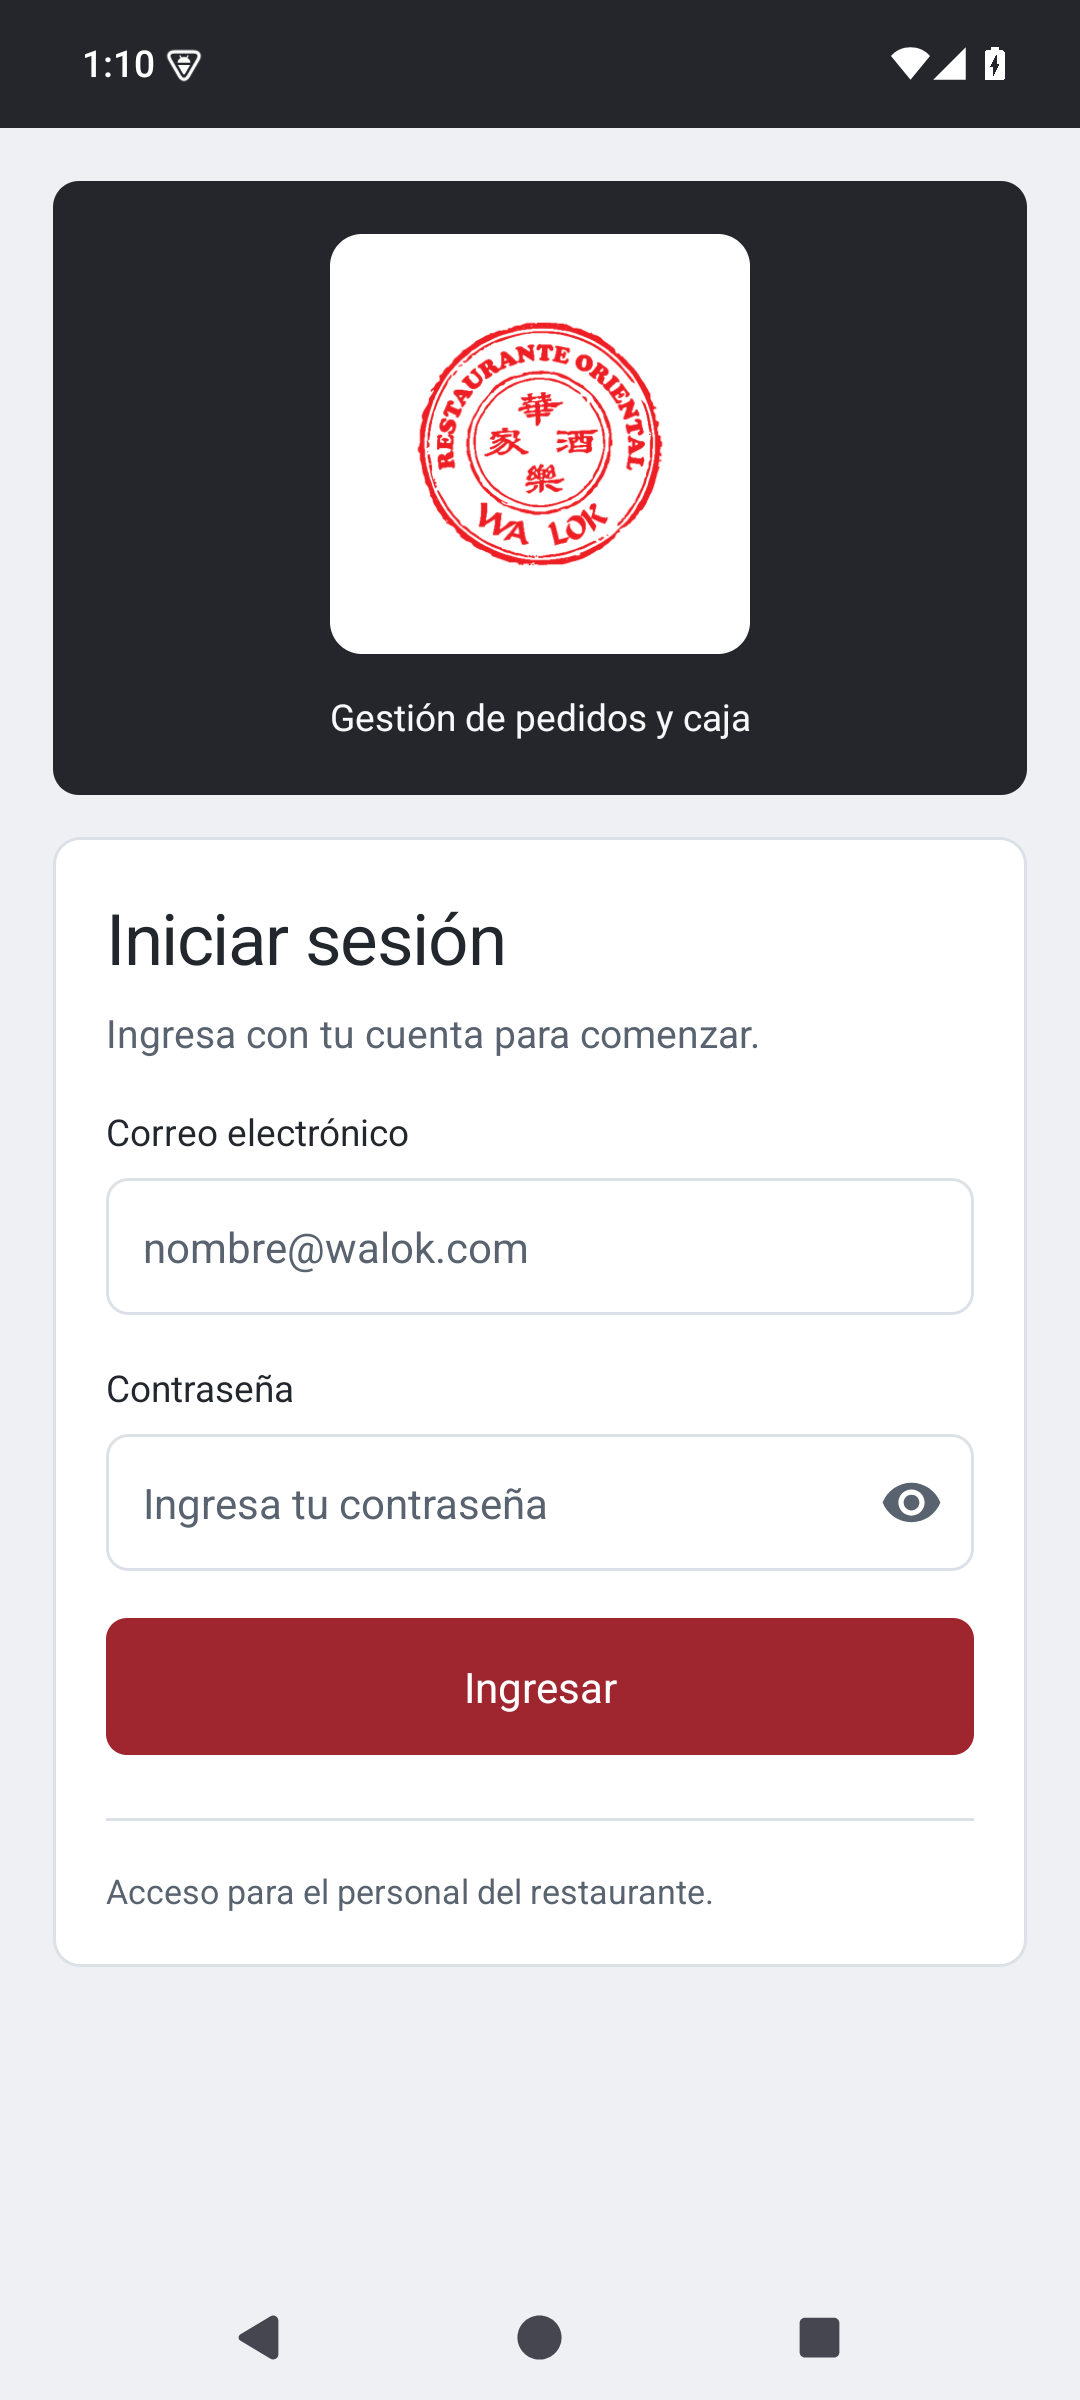
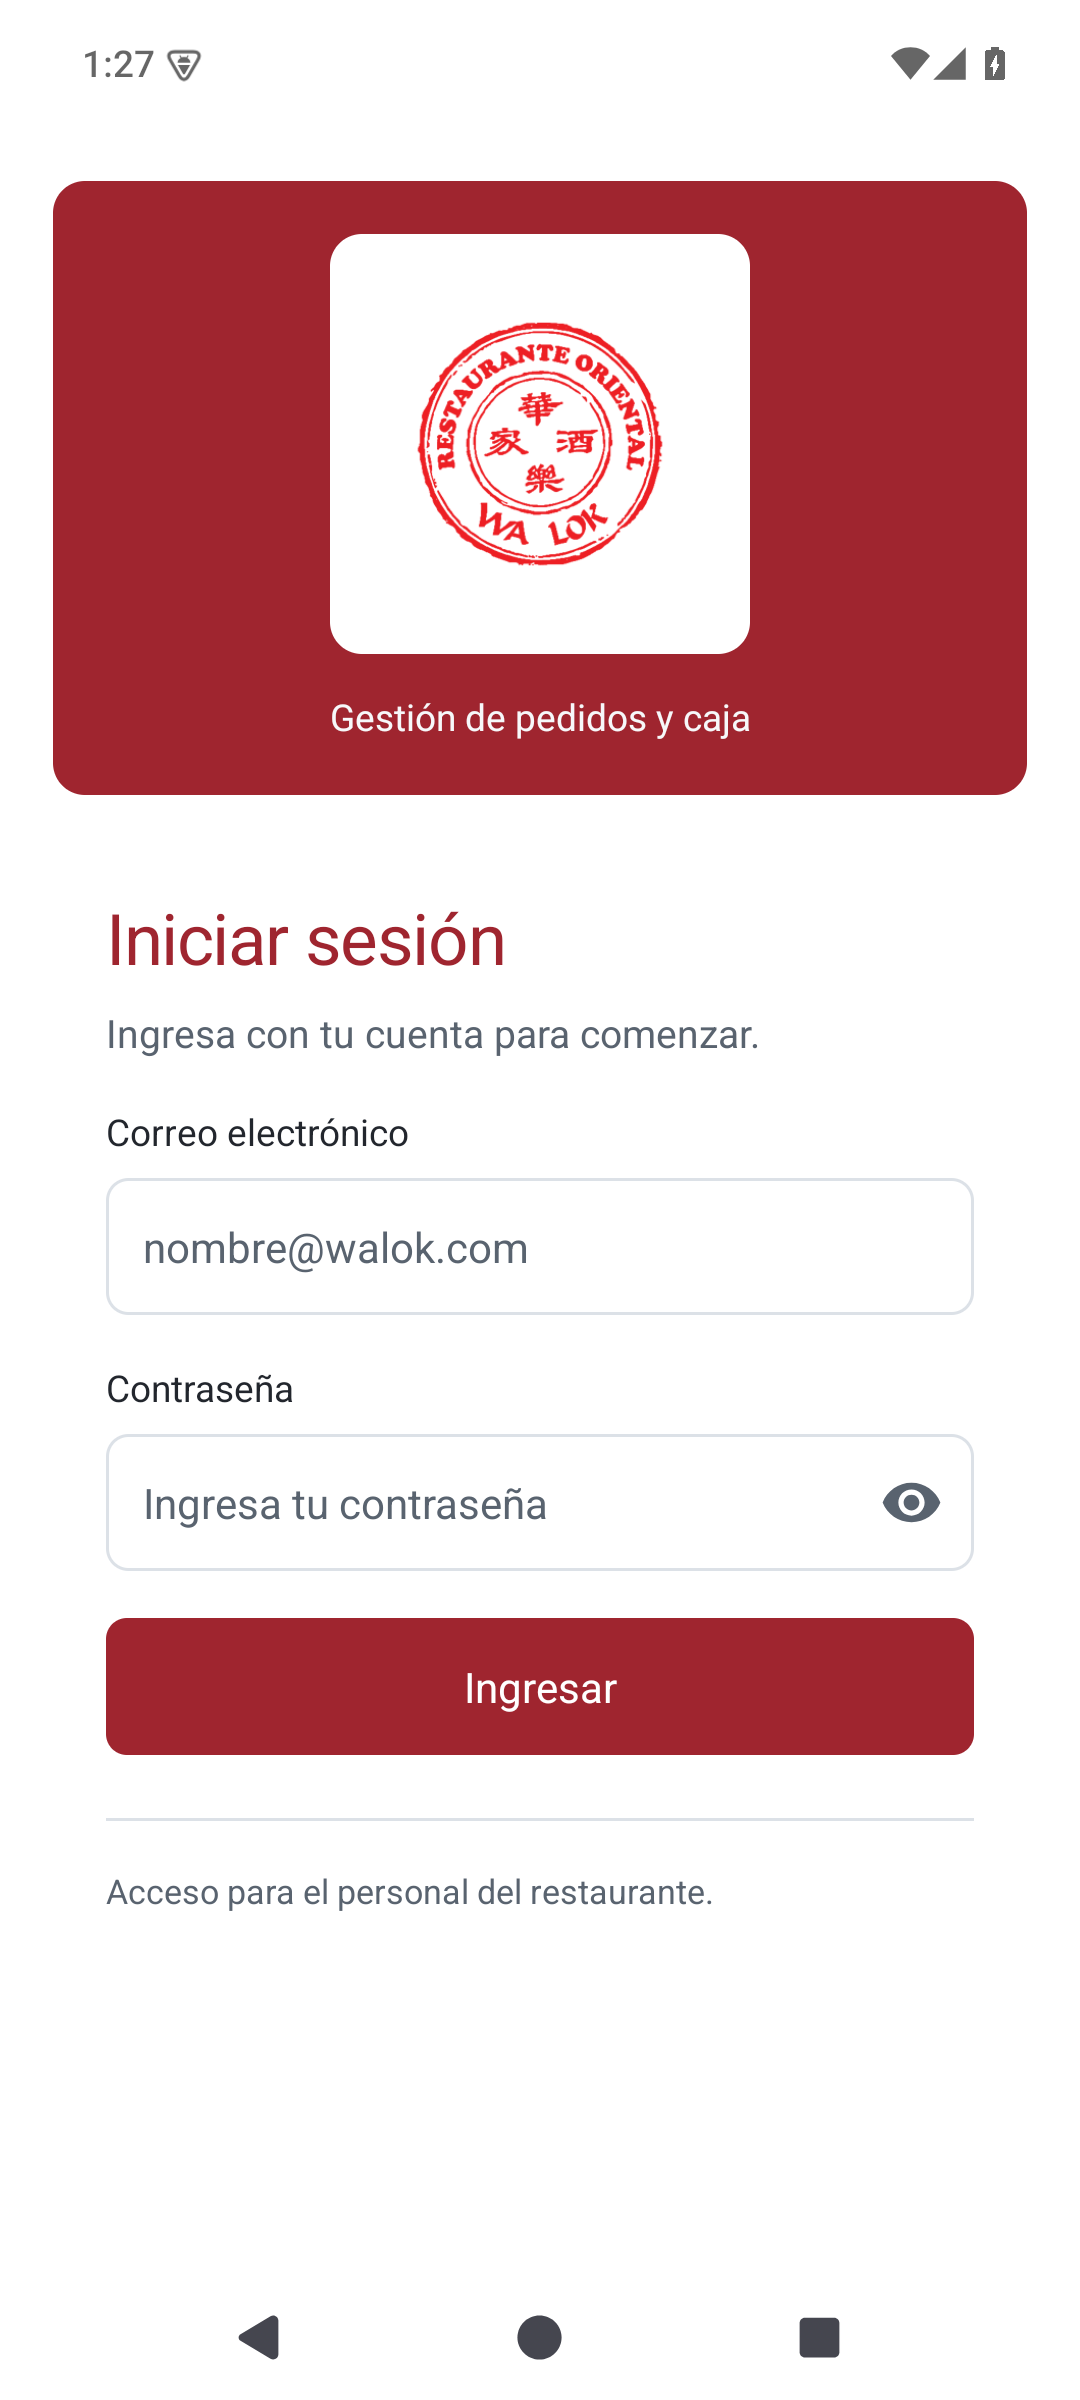
fix: ajustar login de Walok en rojo y blanco

Changed region(s): [[0.0, 0.0, 1.0, 0.3438], [0.0917, 0.375, 0.4889, 0.4062]]

diff --git a/app/src/main/java/com/example/walok_app/WalokActivity.java b/app/src/main/java/com/example/walok_app/WalokActivity.java
@@ -28,24 +28,27 @@ public abstract class WalokActivity extends AppCompatActivity {
             return false;
         }
         setContentView(layout);
+        boolean loginScreen = layout == R.layout.activity_main;
         boolean lightNavigation = Build.VERSION.SDK_INT >= Build.VERSION_CODES.O;
+        int backgroundColor = getColor(loginScreen ? R.color.walok_card : R.color.walok_background);
+        int statusColor = getColor(loginScreen ? R.color.walok_card : R.color.walok_header);
+        int navigationColor = lightNavigation ? backgroundColor
+                : getColor(loginScreen ? R.color.walok_primary : R.color.walok_header);
         WindowCompat.setDecorFitsSystemWindows(getWindow(), false);
         WindowCompat.getInsetsController(getWindow(), getWindow().getDecorView())
-                .setAppearanceLightStatusBars(false);
+                .setAppearanceLightStatusBars(loginScreen);
         WindowCompat.getInsetsController(getWindow(), getWindow().getDecorView())
                 .setAppearanceLightNavigationBars(lightNavigation);
-        getWindow().setStatusBarColor(getColor(R.color.walok_header));
-        getWindow().setNavigationBarColor(getColor(lightNavigation
-                ? R.color.walok_background : R.color.walok_header));
+        getWindow().setStatusBarColor(statusColor);
+        getWindow().setNavigationBarColor(navigationColor);
         if (Build.VERSION.SDK_INT >= Build.VERSION_CODES.Q) {
             getWindow().setNavigationBarContrastEnforced(false);
         }
         View root = findViewById(R.id.screenRoot);
         LayerDrawable backdrop = new LayerDrawable(new Drawable[]{
-                new ColorDrawable(getColor(R.color.walok_background)),
-                new ColorDrawable(getColor(R.color.walok_header)),
-                new ColorDrawable(getColor(lightNavigation
-                        ? R.color.walok_background : R.color.walok_header))});
+                new ColorDrawable(backgroundColor),
+                new ColorDrawable(statusColor),
+                new ColorDrawable(navigationColor)});
         backdrop.setLayerGravity(1, Gravity.TOP);
         backdrop.setLayerHeight(1, 0);
         backdrop.setLayerGravity(2, Gravity.BOTTOM);
